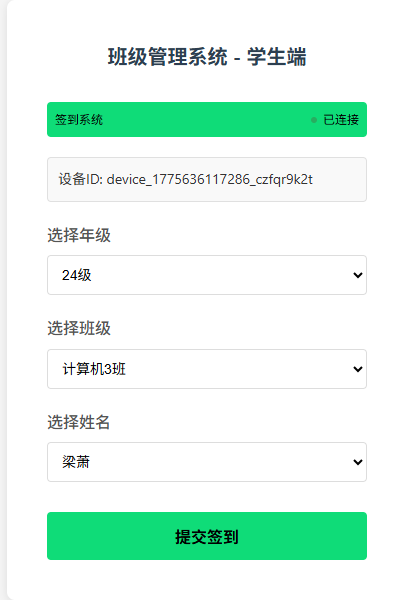
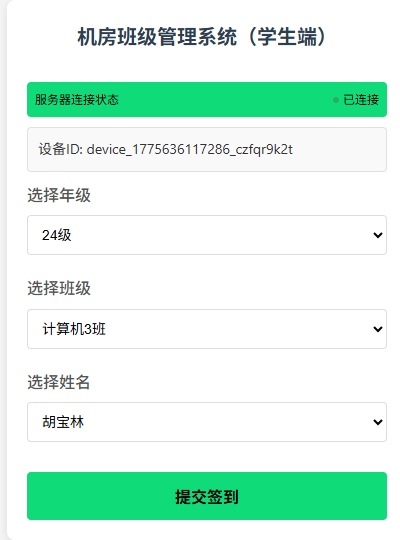
finished work

diff --git a/student.html b/student.html
@@ -4,7 +4,7 @@
 <head>
   <meta charset="UTF-8">
   <meta name="viewport" content="width=device-width, initial-scale=1.0">
-  <title>班级管理系统 - 学生端</title>
+  <title>机房班级管理系统 - 学生端</title>
   <style>
     * {
       margin: 0;
@@ -26,7 +26,7 @@
       background-color: #ffffff;
       border-radius: 8px;
       box-shadow: 0 2px 10px rgba(0, 0, 0, 0.1);
-      padding: 40px;
+      padding: 20px;
       width: 100%;
       max-width: 400px;
       margin: 50px auto;
@@ -192,7 +192,7 @@
 
     label {
       display: block;
-      margin-bottom: 8px;
+      margin-bottom: 4px;
       font-weight: 500;
       color: #555;
     }
@@ -264,7 +264,7 @@
       color: black;
       padding: 8px;
       border-radius: 4px;
-      margin-bottom: 20px;
+      margin-bottom: 10px;
       font-size: 12px;
       display: flex;
       justify-content: space-between;
@@ -275,7 +275,7 @@
       background-color: #f9f9f9;
       padding: 10px;
       border-radius: 4px;
-      margin-bottom: 20px;
+      margin-bottom: 10px;
       font-size: 14px;
       border: 1px solid #e0e0e0;
     }
@@ -290,7 +290,7 @@
       height: 6px;
       border-radius: 50%;
       background-color: #27ae60;
-      margin-right: 6px;
+      margin-right: 4px;
     }
   </style>
 </head>
@@ -298,10 +298,9 @@
 <body>
   <!-- 签到页面 -->
   <div class="container" id="signin-container">
-    <h1>班级管理系统 - 学生端</h1>
-
+    <h1>机房班级管理系统（学生端）</h1>
     <div class="status-bar">
-      <div>签到系统</div>
+      <div>服务器连接状态</div>
       <div class="connection-status">
         <div class="status-indicator"></div>
         <span>已连接</span>
@@ -314,21 +313,21 @@
 
     <form id="signin-form">
       <div class="form-group">
-        <label for="grade-select">选择年级</label>
+        <label for="grade-select">年级</label>
         <select id="grade-select" required>
           <option value="">请选择年级</option>
         </select>
       </div>
 
       <div class="form-group">
-        <label for="class-select">选择班级</label>
+        <label for="class-select">班级</label>
         <select id="class-select" required disabled>
           <option value="">请先选择年级</option>
         </select>
       </div>
 
       <div class="form-group">
-        <label for="student-name">选择姓名</label>
+        <label for="student-name">姓名</label>
         <select id="student-name" required disabled>
           <option value="">请先选择班级</option>
         </select>
@@ -427,6 +426,8 @@
       }
     }
 
+    let savedSigninData = null;
+
     // 初始化WebSocket连接
     function initWebSocket() {
       // 清除之前的定时器
@@ -455,6 +456,13 @@
             gradeClassMap = data.gradeClassMap;
           }
           updateGradeSelect();
+
+          // 学生数据加载完成后，如果有保存的签到数据，尝试恢复
+          if (savedSigninData) {
+            setTimeout(() => {
+              restoreSigninState(savedSigninData);
+            }, 100);
+          }
         } else if (data.type === 'signinSuccess') {
           showMessage(data.message, 'success');
           // 进入聊天室
@@ -666,6 +674,15 @@
 
     // 进入聊天室
     function enterChatRoom() {
+      // 保存学生信息到localStorage
+      const savedStudentData = {
+        name: currentStudent.name,
+        classId: currentStudent.classId,
+        grade: currentStudent.grade,
+        deviceId: document.getElementById('current-device-id').textContent
+      };
+      localStorage.setItem('studentSigninData', JSON.stringify(savedStudentData));
+
       // 隐藏签到页面，显示聊天室
       document.getElementById('signin-container').style.display = 'none';
       document.getElementById('chat-container').style.display = 'flex';
@@ -909,15 +926,62 @@
       }
     }
 
+    // 自动恢复签到状态
+    function restoreSigninState(savedData) {
+      if (!savedData) return;
+
+      // 检查设备ID是否匹配
+      const currentDeviceId = document.getElementById('current-device-id').textContent;
+      if (savedData.deviceId !== currentDeviceId) {
+        console.log('设备ID不匹配，不恢复签到状态');
+        savedSigninData = null;
+        return;
+      }
+
+      // 保存学生信息
+      currentStudent = {
+        name: savedData.name,
+        classId: savedData.classId,
+        grade: savedData.grade
+      };
+      currentClassId = savedData.classId;
+      currentGrade = savedData.grade;
+
+      // 发送签到请求到服务器（这会允许重新进入聊天室）
+      if (ws && ws.readyState === WebSocket.OPEN) {
+        ws.send(JSON.stringify({
+          type: 'signin',
+          classId: savedData.classId,
+          studentId: savedData.name,
+          studentName: savedData.name,
+          deviceId: currentDeviceId
+        }));
+      }
+      savedSigninData = null; // 清除已使用的保存数据
+    }
+
     // 页面加载时初始化
     window.onload = function () {
-      initWebSocket();
-      // 获取并显示设备ID
+      // 首先获取设备ID
       getDeviceId().then(deviceId => {
         document.getElementById('current-device-id').textContent = deviceId;
+
+        // 检查localStorage中是否有保存的签到信息
+        const savedDataStr = localStorage.getItem('studentSigninData');
+        if (savedDataStr) {
+          try {
+            savedSigninData = JSON.parse(savedDataStr);
+          } catch (e) {
+            console.error('解析保存的签到数据失败:', e);
+            savedSigninData = null;
+          }
+        }
+
+        initWebSocket();
       }).catch(error => {
         document.getElementById('current-device-id').textContent = '获取失败';
         console.error('获取设备ID失败:', error);
+        initWebSocket();
       });
     };
   </script>

diff --git a/server.js b/server.js
@@ -247,7 +247,32 @@ wss.on("connection", (ws) => {
               ),
             );
 
-            if (!existingStudent && !deviceIdUsed) {
+            // 如果是同一学生使用同一设备重新签到，允许通过
+            if (existingStudent && existingStudent.deviceId === data.deviceId) {
+              // 更新客户端连接信息
+              const clientIndex = clients.students.findIndex(
+                (client) => client.ws === ws,
+              );
+              if (clientIndex !== -1) {
+                clients.students[clientIndex] = {
+                  ws: ws,
+                  studentId: data.studentId,
+                  studentName: data.studentName,
+                  classId: data.classId,
+                };
+              }
+
+              // 向学生发送成功信息（恢复签到状态）
+              if (ws.readyState === WebSocket.OPEN) {
+                ws.send(
+                  JSON.stringify({
+                    type: "signinSuccess",
+                    message: "欢迎回来！",
+                  }),
+                );
+              }
+            } else if (!existingStudent && !deviceIdUsed) {
+              // 新学生签到
               const student = {
                 id: data.studentId,
                 name: data.studentName,
@@ -290,7 +315,7 @@ wss.on("connection", (ws) => {
               if (ws.readyState === WebSocket.OPEN) {
                 let errorMessage = "";
                 if (existingStudent) {
-                  errorMessage = "您已经签到过了！";
+                  errorMessage = "您已经在其他设备上签到过了！";
                 } else if (deviceIdUsed) {
                   errorMessage =
                     "当前设备已经签到过其他学生，请使用自己的电脑签到！";
@@ -625,28 +650,8 @@ wss.on("connection", (ws) => {
       (client) => client.ws === ws,
     );
     if (studentIndex !== -1) {
-      const studentInfo = clients.students[studentIndex];
       clients.students.splice(studentIndex, 1);
-
-      // 移除学生签到信息
-      if (studentInfo.classId && studentInfo.studentId) {
-        const classInfo = classData[studentInfo.classId];
-        if (classInfo) {
-          const studentSigninIndex = classInfo.students.findIndex(
-            (s) => s.id === studentInfo.studentId,
-          );
-          if (studentSigninIndex !== -1) {
-            classInfo.students.splice(studentSigninIndex, 1);
-
-            // 广播移除签到信息给所有老师
-            broadcastToTeachers({
-              type: "signout",
-              classId: studentInfo.classId,
-              studentId: studentInfo.studentId,
-            });
-          }
-        }
-      }
+      // 注意：不移除学生签到信息，保持签到状态，允许学生重新连接时恢复
 
       // 广播学生连接数量
       broadcastStudentCount();
@@ -669,28 +674,8 @@ function checkClientConnections() {
     const ws = client.ws || client;
     if (ws.readyState !== WebSocket.OPEN) {
       // 连接已关闭，移除学生
-      const studentInfo = client;
       clients.students.splice(i, 1);
-
-      // 移除学生签到信息
-      if (studentInfo.classId && studentInfo.studentId) {
-        const classInfo = classData[studentInfo.classId];
-        if (classInfo) {
-          const studentSigninIndex = classInfo.students.findIndex(
-            (s) => s.id === studentInfo.studentId,
-          );
-          if (studentSigninIndex !== -1) {
-            classInfo.students.splice(studentSigninIndex, 1);
-
-            // 广播移除签到信息给所有老师
-            broadcastToTeachers({
-              type: "signout",
-              classId: studentInfo.classId,
-              studentId: studentInfo.studentId,
-            });
-          }
-        }
-      }
+      // 注意：不移除学生签到信息，保持签到状态
 
       // 广播学生连接数量
       broadcastStudentCount();
